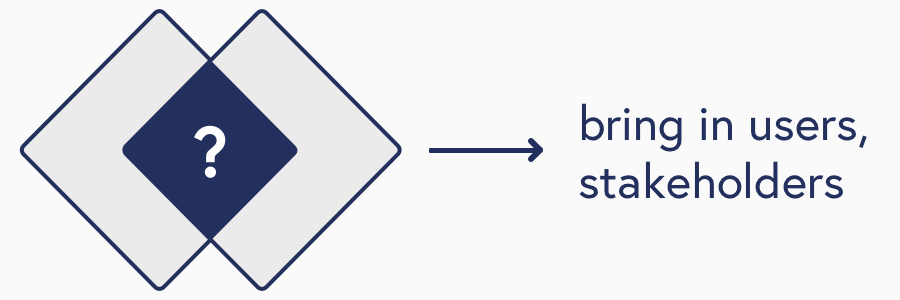
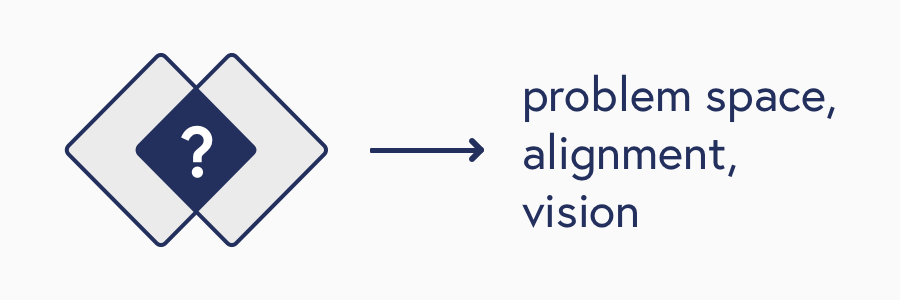
Process Page added

diff --git a/src/pages/process.md b/src/pages/process.md
@@ -7,7 +7,7 @@ workitemTitle: landing-work_item-title-process
 landingImage: ../images/process/process_preview@2x.png
 featuredImage: ../images/process/process_hero@2x.png
 heroTitle: "How I approach design"
-heroSubtitle: "an exploration of my process"
+heroSubtitle: "from thinking to doing"
 heroRoles: ""
 heroCompany: ""
 heroTimeline: ""
@@ -22,15 +22,56 @@ isBlog: false
 
 ![Discover insights from users, with stakeholders](../images/process/Empathize.png)
 
-My design process starts with building an understanding of the domain, users, and stakeholders involved.
+### Empathize
 
-This is to discover the team's initial insights, uncover the unknown, and challenge assumptions made during leading up to this part of the design process.
+My design process starts with building an understanding of the domain, users, and stakeholders involved. Doing this creates hypotheses I can test in the next part of the process.
 
-![Going on site to discover how people park thier bikes in public](../images/process/contextualinquiry.png)
+By building an understanding, I can discover initial insights, uncover the unknown, and challenge assumptions made during leading up to this part of the design process.
+
+![Going on site to discover how people park thier bikes in public for the BikeLocker project](../images/process/contextualinquiry.png)
 
 See this project at [Bike Locker](/bikelocker).
 
-Users have an existing workflow that they use to fufill their goals. Uncovering the mechanisms of thier workflow gives us a better understanding where features can be expeceted to fit into their workflow.
+Users have an existing workflow that they use to fufill their goals. Uncovering the mechanisms of thier workflow gives me a better understanding where features can be expeceted to fit into their workflow.
 
 ![](../images/process/Define.png)
 
+### Define
+
+From analysing the data from research, discussing with stakeholders such as project managers and clients, I am able to start building a vision of what is the problem space and align on possible solutions with the rest of the team.
+
+At this point it’s important to keep in mind the scope of the project and define a vision that is understood by all involved parties. Lots of discussion, lots of stickies, but ultimately to meet inbetween user needs and business goals.
+
+![Journey map for existing users of BullyFreeBC's website](../images/process/CJM.png)
+
+See this project at [BullyFreeBC](/bfbc).
+
+I believe utilizing tools like journey maps and user personsa let me define the problem space to both myself and the other stakeholders. These tools to me are like the framing of a house, without them I'd have no structure to build on.
+
+![](../images/process/Ideate.png)
+
+### Ideate
+
+Ideation involves exploring the problem space I just defined. Creating design artifacts, like feature lists and user flows, let me explore the touchpoints where my design will interact with users.
+
+During this part of my process, an important lesson from [Jane Wong](https://medium.com/ssense-tech/designing-with-ambiguity-part-ii-design-doing-not-thinking-4065c07e7373) is to connect the dots but not all of them.
+
+>"There were times we went down rabbit holes and lost sight of the bigger picture in a frenzy of ideas. This could unnecessarily draw out any ideation phase, when sometimes the best action is to sum up your findings and carry on in a direction."
+
+![Example account creation user flow for a wellness mobile app](../images/process/userflow.png)
+
+I believe in making design artifacts to present the initial vision of the project to other designers, project managers, and developers.
+
+![](../images/process/Prototyping.png)
+
+### Prototype - Testing
+
+> Test early, break often
+
+Prototyping to me is validating ideas and to start "think by doing". From making paper prototypes, light weight Sketch+Invision mockups, or even fully featured Adobe XD prototypes, these are to start checking our thoughts if they are true.
+
+From here I can refine, build, test, and repeat until I reach a stable conlcusion that fits both business goals and user goals.
+
+![Iterations of our landing page, we found through testing putting hotlinks onto the first fold of the page gave direction to users who are in a hurry to get what they need.](../images/process/testing.png)
+
+More time spent to playing, testing, and iterating on concepts lets the team move forward with more decisiveness and clarity.
